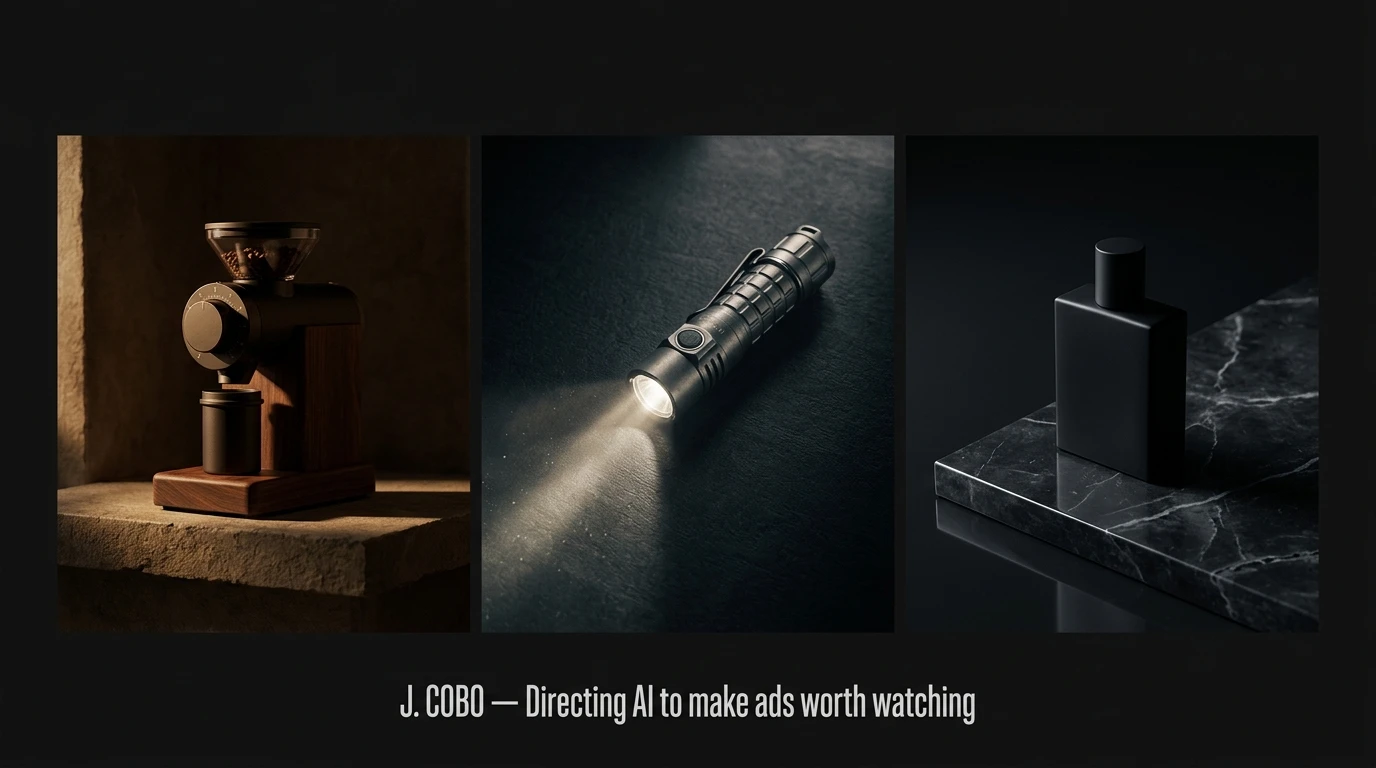
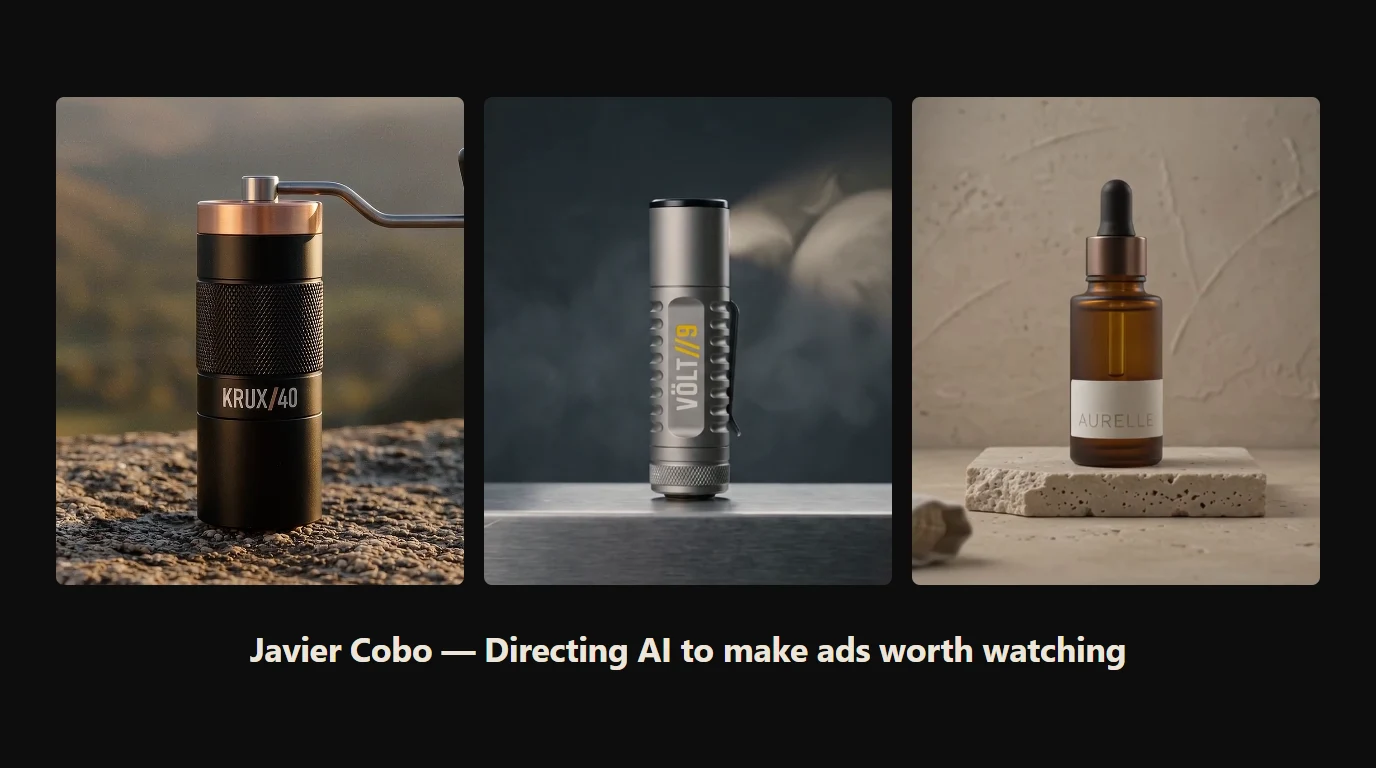
feat: rebrand to Javier Cobo, fix AVYN/AURELLE mismatch, real video posters
- Update name from "J. Cobo" to "Javier Cobo" across title, meta tags,
  header, footer, and README
- Rename the "AVYN — Eau de Parfum" video piece to "AURELLE — Eau de
  Parfum" — it used the same Aurelle-branded bottle as the static ads,
  just under the wrong product name
- Replace AI-generated poster images (krux40, volt9, aurelle-parfum)
  with real frames extracted from the actual video files, so posters
  match what plays
- Regenerate the social share (OG) image with the new name and real
  product frames instead of generic AI mockups
- Switch .work-grid from CSS Grid to a masonry-style column layout —
  mixing portrait video cards with landscape stills in the same grid
  row was stretching row height to the tallest card and leaving dead
  space under shorter ones; the featured card now spans full width as
  a hero instead of a fixed 2-column span

diff --git a/index.html b/index.html
@@ -3,12 +3,12 @@
 <head>
   <meta charset="UTF-8" />
   <meta name="viewport" content="width=device-width, initial-scale=1.0" />
-  <title>J. Cobo — AI Ad Director</title>
+  <title>Javier Cobo — AI Ad Director</title>
   <meta name="description" content="Directing AI to make ads worth watching. Spec-quality product films from prompt to final cut. Available for hire." />
 
   <!-- Open Graph -->
   <meta property="og:type" content="website" />
-  <meta property="og:title" content="J. Cobo — Directing AI to make ads worth watching" />
+  <meta property="og:title" content="Javier Cobo — Directing AI to make ads worth watching" />
   <meta property="og:description" content="Spec-quality product films. Prompt to delivery. See the work." />
   <meta property="og:image" content="https://portfolio-rho-roan-adq31282x4.vercel.app/posters/og.webp" />
   <meta property="og:image:width" content="1376" />
@@ -17,7 +17,7 @@
 
   <!-- Twitter Card -->
   <meta name="twitter:card" content="summary_large_image" />
-  <meta name="twitter:title" content="J. Cobo — Directing AI to make ads worth watching" />
+  <meta name="twitter:title" content="Javier Cobo — Directing AI to make ads worth watching" />
   <meta name="twitter:description" content="Spec-quality product films. Prompt to delivery. See the work." />
   <meta name="twitter:image" content="https://portfolio-rho-roan-adq31282x4.vercel.app/posters/og.webp" />
 
@@ -29,7 +29,7 @@
   <header class="site-header" role="banner">
     <div class="header-inner">
       <div class="header-identity">
-        <h1 class="site-name">J. Cobo</h1>
+        <h1 class="site-name">Javier Cobo</h1>
         <p class="site-tagline">Directing AI to make ads worth watching.</p>
       </div>
       <nav class="header-actions" aria-label="Contact">
@@ -37,7 +37,7 @@
           id="btn-email"
           class="btn btn-primary"
           href="mailto:javierc.dom@gmail.com"
-          aria-label="Send email to J. Cobo"
+          aria-label="Send email to Javier Cobo"
         >Email</a>
         <button
           id="btn-copy"
@@ -91,7 +91,7 @@
   <!-- FOOTER -->
   <footer class="site-footer" role="contentinfo">
     <p class="footer-email">
-      <a href="mailto:javierc.dom@gmail.com" aria-label="Email J. Cobo">javierc.dom@gmail.com</a>
+      <a href="mailto:javierc.dom@gmail.com" aria-label="Email Javier Cobo">javierc.dom@gmail.com</a>
     </p>
     <p class="footer-year" aria-label="Copyright year">
       <span id="year"></span>

diff --git a/styles.css b/styles.css
@@ -179,11 +179,13 @@ a {
   width: 100%;
 }
 
+/* Masonry-style columns: cards vary in height (portrait video vs.
+   landscape stills), so CSS Grid rows would size to the tallest card
+   per row and leave dead space under shorter neighbors. Columns let
+   each card stack tight regardless of its neighbors' height. */
 .work-grid {
-  display: grid;
-  grid-template-columns: repeat(auto-fit, minmax(min(100%, 320px), 1fr));
-  gap: clamp(12px, 2vw, 20px);
-  align-items: start;
+  column-width: 320px;
+  column-gap: clamp(12px, 2vw, 20px);
 }
 
 /* ── Cards ────────────────────────────────────────────────── */
@@ -200,6 +202,8 @@ a {
     box-shadow 0.22s var(--ease);
   display: flex;
   flex-direction: column;
+  break-inside: avoid;
+  margin-bottom: clamp(12px, 2vw, 20px);
 }
 
 .card:hover {
@@ -208,10 +212,10 @@ a {
   box-shadow: 0 8px 32px rgba(0,0,0,0.5);
 }
 
-/* Featured card: double column on desktop */
+/* Featured card: full-width hero on desktop */
 @media (min-width: 768px) {
   .card--featured {
-    grid-column: span 2;
+    column-span: all;
   }
 }
 

diff --git a/app.js b/app.js
@@ -1,5 +1,5 @@
 /**
- * app.js — J. Cobo portfolio
+ * app.js — Javier Cobo portfolio
  * Vanilla JS, no dependencies.
  *
  * Responsibilities:

diff --git a/README.md b/README.md
@@ -1,4 +1,4 @@
-# J. Cobo — AI Ad Portfolio
+# Javier Cobo — AI Ad Portfolio
 
 Static portfolio. One page. Zero build step.
 
